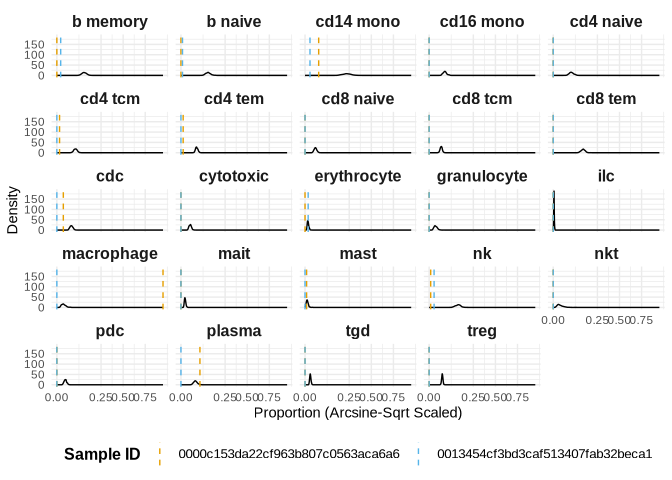
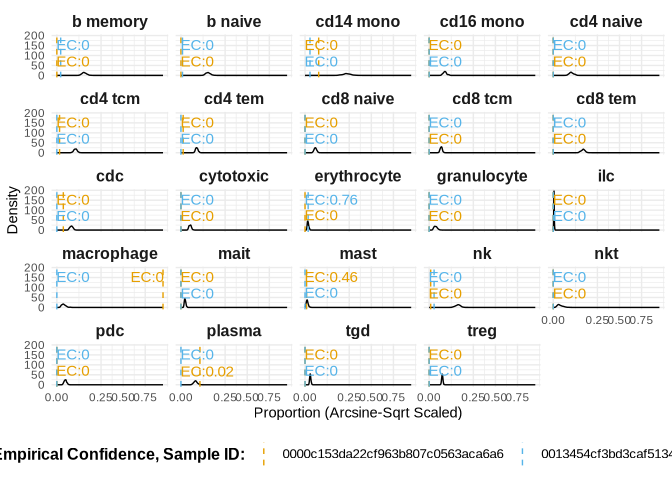
major update to cache and download sys, plot and md files

diff --git a/README.md b/README.md
@@ -1,5 +1,10 @@
-posteriorHCA
-================
+---
+editor_options: 
+  markdown: 
+    wrap: 72
+---
+
+# posteriorHCA
 
 <!-- badges: start -->
 
@@ -55,11 +60,15 @@ library(posteriorHCA)
 
 ## Usage Example
 
-### 1. Load Example Data
+### 1. Load relavent packages and example data
 
 The package includes a small example dataset for demonstration:
 
 ``` r
+library(dplyr)
+library(tidyr)
+library(ggplot2)
+
 data(example_proportions)
 print(example_proportions)
 #> # A tibble: 48 × 3
@@ -90,9 +99,11 @@ result <- posterior_test(
     age_bin = "Middle Age",
     disease_groups = "Normal",
     ethnicity_groups = "European",
-    tissue_groups = "blood"
+    tissue_groups = "blood", 
+    load_model_to_global_env = T
 )
-#> Model loaded!
+#> ℹ Using cached model file: /home/chzhan1/.cache/R/posteriorHCA/estimates_age_bins___L2.rds
+#> Model file loaded: Global Env.
 #> All inputs of metadata are valid.
 #> Start to generative sampling form posterior...
 #> Loading model from cache...
@@ -100,23 +111,34 @@ result <- posterior_test(
 #> 
 #> Chain 1 finished in 0.0 seconds.
 #> # A tibble: 48 × 7
-#>    sample_id_observed       cell_type proportion_observed p_value   mean   lower
-#>    <chr>                    <chr>                   <dbl>   <dbl>  <dbl>   <dbl>
-#>  1 0000c153da22cf963b807c0… b memory             0              0 0.102  0.0731 
-#>  2 0000c153da22cf963b807c0… b naive              0              0 0.101  0.0709 
-#>  3 0000c153da22cf963b807c0… cd14 mono            0.0259         0 0.227  0.155  
-#>  4 0000c153da22cf963b807c0… cd16 mono            0              0 0.0349 0.0222 
-#>  5 0000c153da22cf963b807c0… cd4 naive            0              0 0.0467 0.0287 
-#>  6 0000c153da22cf963b807c0… cd4 tcm              0.00104        0 0.0483 0.0333 
-#>  7 0000c153da22cf963b807c0… cd4 tem              0.000692       0 0.0347 0.0260 
-#>  8 0000c153da22cf963b807c0… cd8 naive            0              0 0.0154 0.00872
-#>  9 0000c153da22cf963b807c0… cd8 tcm              0              0 0.0205 0.0140 
-#> 10 0000c153da22cf963b807c0… cd8 tem              0              0 0.120  0.0928 
+#>    sample_id_observed  cell_type proportion_observed Empirical_Confidence   mean
+#>    <chr>               <chr>                   <dbl>                <dbl>  <dbl>
+#>  1 0000c153da22cf963b… b memory             0                           0 0.103 
+#>  2 0000c153da22cf963b… b naive              0                           0 0.100 
+#>  3 0000c153da22cf963b… cd14 mono            0.0259                      0 0.227 
+#>  4 0000c153da22cf963b… cd16 mono            0                           0 0.0352
+#>  5 0000c153da22cf963b… cd4 naive            0                           0 0.0468
+#>  6 0000c153da22cf963b… cd4 tcm              0.00104                     0 0.0482
+#>  7 0000c153da22cf963b… cd4 tem              0.000692                    0 0.0349
+#>  8 0000c153da22cf963b… cd8 naive            0                           0 0.0152
+#>  9 0000c153da22cf963b… cd8 tcm              0                           0 0.0206
+#> 10 0000c153da22cf963b… cd8 tem              0                           0 0.120 
 #> # ℹ 38 more rows
-#> # ℹ 1 more variable: upper <dbl>
+#> # ℹ 2 more variables: lower <dbl>, upper <dbl>
 ```
 
-![](README_files/figure-gfm/unnamed-chunk-5-1.png)<!-- -->
+![](/home/chzhan1/R/SAiGENCI/posteriorHCA/README_files/figure-gfm/unnamed-chunk-5-1.png)<!-- -->
+
+#### About `load_model_to_global_env`
+
+In the `posterior_test` function, we added arg -
+`load_model_to_global_env` to determine if the model file should be
+loaded into global env or local env (scoop within the function running)
+in R session. By default, it is set to be TRUE -
+`load_model_to_global_env = T`, and this is particularly useful when you
+wish to repeatedly running the function. Loading model file into global
+env prevents re-loading the model file, which usually will cost you
+minutes to run.
 
 ### **3. Inspect the Results**
 
@@ -125,29 +147,29 @@ result <- posterior_test(
 ``` r
 print(result$result_table)
 #> # A tibble: 48 × 7
-#>    sample_id_observed       cell_type proportion_observed p_value   mean   lower
-#>    <chr>                    <chr>                   <dbl>   <dbl>  <dbl>   <dbl>
-#>  1 0000c153da22cf963b807c0… b memory             0              0 0.102  0.0731 
-#>  2 0000c153da22cf963b807c0… b naive              0              0 0.101  0.0709 
-#>  3 0000c153da22cf963b807c0… cd14 mono            0.0259         0 0.227  0.155  
-#>  4 0000c153da22cf963b807c0… cd16 mono            0              0 0.0349 0.0222 
-#>  5 0000c153da22cf963b807c0… cd4 naive            0              0 0.0467 0.0287 
-#>  6 0000c153da22cf963b807c0… cd4 tcm              0.00104        0 0.0483 0.0333 
-#>  7 0000c153da22cf963b807c0… cd4 tem              0.000692       0 0.0347 0.0260 
-#>  8 0000c153da22cf963b807c0… cd8 naive            0              0 0.0154 0.00872
-#>  9 0000c153da22cf963b807c0… cd8 tcm              0              0 0.0205 0.0140 
-#> 10 0000c153da22cf963b807c0… cd8 tem              0              0 0.120  0.0928 
+#>    sample_id_observed  cell_type proportion_observed Empirical_Confidence   mean
+#>    <chr>               <chr>                   <dbl>                <dbl>  <dbl>
+#>  1 0000c153da22cf963b… b memory             0                           0 0.103 
+#>  2 0000c153da22cf963b… b naive              0                           0 0.100 
+#>  3 0000c153da22cf963b… cd14 mono            0.0259                      0 0.227 
+#>  4 0000c153da22cf963b… cd16 mono            0                           0 0.0352
+#>  5 0000c153da22cf963b… cd4 naive            0                           0 0.0468
+#>  6 0000c153da22cf963b… cd4 tcm              0.00104                     0 0.0482
+#>  7 0000c153da22cf963b… cd4 tem              0.000692                    0 0.0349
+#>  8 0000c153da22cf963b… cd8 naive            0                           0 0.0152
+#>  9 0000c153da22cf963b… cd8 tcm              0                           0 0.0206
+#> 10 0000c153da22cf963b… cd8 tem              0                           0 0.120 
 #> # ℹ 38 more rows
-#> # ℹ 1 more variable: upper <dbl>
+#> # ℹ 2 more variables: lower <dbl>, upper <dbl>
 ```
 
-Density Plot of Posterior Predictions
+#### Density Plot of Posterior Predictions
 
 ``` r
 print(result$plot)
 ```
 
-![](README_files/figure-gfm/unnamed-chunk-7-1.png)<!-- -->
+![](/home/chzhan1/R/SAiGENCI/posteriorHCA/README_files/figure-gfm/unnamed-chunk-7-1.png)<!-- -->
 
 ## **Input Arguments and Valid Values**
 
@@ -163,17 +185,43 @@ If users choose to specify metadata, it must be consistent with the
 **Human Cell Atlas (HCA) annotations** to ensure accurate comparisons.
 Below is a comprehensive list of valid arguments:
 
--   **Cell Types:** "b memory", "b naive", "cd14 mono", "cd16 mono", "cd4 naive", "cd4 tcm", "cd4 tem", "cd8 naive", "cd8 tcm", "cd8 tem", "cdc", "cytotoxic", "erythrocyte", "granulocyte", "ilc", "macrophage", "mait", "mast", "nk", "nkt", "pdc", "plasma", "tgd", "treg"
+-   **Cell Types:** “b memory”, “b naive”, “cd14 mono”, “cd16 mono”,
+    “cd4 naive”, “cd4 tcm”, “cd4 tem”, “cd8 naive”, “cd8 tcm”, “cd8
+    tem”, “cdc”, “cytotoxic”, “erythrocyte”, “granulocyte”, “ilc”,
+    “macrophage”, “mait”, “mast”, “nk”, “nkt”, “pdc”, “plasma”, “tgd”,
+    “treg”
 
--   **Sex:** "female", "male", "unknown"
+-   **Sex:** “female”, “male”, “unknown”
 
--   **Age Groups:** "Young Adulthood", "Senior", "Middle Age", "Childhood", "Adolescence", "Infancy"
+-   **Age Groups:** “Young Adulthood”, “Senior”, “Middle Age”,
+    “Childhood”, “Adolescence”, “Infancy”
 
--   **Disease Groups:** "Normal", "COVID-19 related", "Metabolic and Other Disorders: Renal and Urinary Disorders", "other", "Metabolic and Other Disorders: Gastrointestinal Disorders", "Respiratory Conditions: General Respiratory Disorders", "Infectious and Immune-related Diseases: Autoimmune and Immune-Related Disorders", "Infectious and Immune-related Diseases: Respiratory Infections", "Cancer: Renal Cancer", "Cancer: Gastrointestinal Cancer", "Cancer: Hematologic Cancer", "Cancer: Breast Cancer", "Cancer: Lung Cancer", "Respiratory Conditions: Restrictive Lung Diseases", "Neurodegenerative and Neurological Disorders: Neurodegenerative Disorders", "Metabolic and Other Disorders: Metabolic Disorders", "Respiratory Conditions: Obstructive Lung Diseases"
+-   **Disease Groups:** “Normal”, “COVID-19 related”, “Metabolic and
+    Other Disorders: Renal and Urinary Disorders”, “other”, “Metabolic
+    and Other Disorders: Gastrointestinal Disorders”, “Respiratory
+    Conditions: General Respiratory Disorders”, “Infectious and
+    Immune-related Diseases: Autoimmune and Immune-Related Disorders”,
+    “Infectious and Immune-related Diseases: Respiratory Infections”,
+    “Cancer: Renal Cancer”, “Cancer: Gastrointestinal Cancer”, “Cancer:
+    Hematologic Cancer”, “Cancer: Breast Cancer”, “Cancer: Lung Cancer”,
+    “Respiratory Conditions: Restrictive Lung Diseases”,
+    “Neurodegenerative and Neurological Disorders: Neurodegenerative
+    Disorders”, “Metabolic and Other Disorders: Metabolic Disorders”,
+    “Respiratory Conditions: Obstructive Lung Diseases”
 
--   **Ethnicity Groups:** "African", "Other/Unknown", "European", "East Asian", "Hispanic/Latin American", "South Asian", "Native American & Pacific Islander"
+-   **Ethnicity Groups:** “African”, “Other/Unknown”, “European”, “East
+    Asian”, “Hispanic/Latin American”, “South Asian”, “Native American &
+    Pacific Islander”
 
--   **Tissue Groups:** "respiratory system", "blood", "renal system", "epithelium and mucosal tissues", "nasal, oral, and pharyngeal regions", "cerebral lobes and cortical areas", "breast", "cardiovascular system", "small intestine", "trachea", "endocrine system", "lymphatic system", "prostate", "sensory-related structures", "liver", "oesophagus", "large intestine", "spleen", "brainstem and cerebellar structures", "bone marrow", "stomach", "female reproductive system", "thymus", "adipose tissue", "integumentary system (skin)", "gallbladder", "pancreas"
+-   **Tissue Groups:** “respiratory system”, “blood”, “renal system”,
+    “epithelium and mucosal tissues”, “nasal, oral, and pharyngeal
+    regions”, “cerebral lobes and cortical areas”, “breast”,
+    “cardiovascular system”, “small intestine”, “trachea”, “endocrine
+    system”, “lymphatic system”, “prostate”, “sensory-related
+    structures”, “liver”, “oesophagus”, “large intestine”, “spleen”,
+    “brainstem and cerebellar structures”, “bone marrow”, “stomach”,
+    “female reproductive system”, “thymus”, “adipose tissue”,
+    “integumentary system (skin)”, “gallbladder”, “pancreas”
 
 # Session Info
 
@@ -201,54 +249,53 @@ sessionInfo()
 #> [1] stats     graphics  grDevices utils     datasets  methods   base     
 #> 
 #> other attached packages:
-#> [1] posteriorHCA_0.1.0
+#> [1] ggplot2_3.5.1      tidyr_1.3.1        dplyr_1.1.4        posteriorHCA_0.1.0
 #> 
 #> loaded via a namespace (and not attached):
-#>  [1] tidyselect_1.2.1            dplyr_1.1.4                
-#>  [3] farver_2.1.2                fastmap_1.2.0              
-#>  [5] SingleCellExperiment_1.28.1 tensorA_0.36.2.1           
-#>  [7] digest_0.6.37               dittoSeq_1.18.0            
-#>  [9] lifecycle_1.0.4             sccomp_1.99.12             
-#> [11] processx_3.8.5              magrittr_2.0.3             
-#> [13] posterior_1.6.0             compiler_4.4.0             
-#> [15] rlang_1.1.5                 sass_0.4.9                 
-#> [17] tools_4.4.0                 utf8_1.2.4                 
-#> [19] yaml_2.3.10                 data.table_1.16.4          
-#> [21] knitr_1.49                  labeling_0.4.3             
-#> [23] S4Arrays_1.6.0              DelayedArray_0.32.0        
-#> [25] RColorBrewer_1.1-3          cmdstanr_0.8.1             
-#> [27] abind_1.4-8                 withr_3.0.2                
-#> [29] purrr_1.0.4                 BiocGenerics_0.52.0        
-#> [31] grid_4.4.0                  stats4_4.4.0               
-#> [33] colorspace_2.1-1            ggplot2_3.5.1              
-#> [35] scales_1.3.0                ggridges_0.5.6             
-#> [37] SummarizedExperiment_1.36.0 cli_3.6.4                  
-#> [39] rmarkdown_2.29              crayon_1.5.3               
-#> [41] generics_0.1.3              rstudioapi_0.17.1          
-#> [43] httr_1.4.7                  tzdb_0.4.0                 
-#> [45] cachem_1.1.0                stringr_1.5.1              
-#> [47] zlibbioc_1.52.0             parallel_4.4.0             
-#> [49] XVector_0.46.0              matrixStats_1.5.0          
-#> [51] vctrs_0.6.5                 Matrix_1.7-2               
-#> [53] jsonlite_1.8.9              callr_3.7.6                
-#> [55] IRanges_2.40.0              hms_1.1.3                  
-#> [57] patchwork_1.3.0             S4Vectors_0.44.0           
-#> [59] ggrepel_0.9.6               jquerylib_0.1.4            
-#> [61] tidyr_1.3.1                 glue_1.8.0                 
-#> [63] ps_1.8.1                    distributional_0.5.0       
-#> [65] cowplot_1.1.3               stringi_1.8.4              
-#> [67] gtable_0.3.6                GenomeInfoDb_1.42.1        
-#> [69] GenomicRanges_1.58.0        UCSC.utils_1.2.0           
-#> [71] munsell_0.5.1               instantiate_0.2.3          
-#> [73] tibble_3.2.1                pillar_1.10.1              
-#> [75] htmltools_0.5.8.1           GenomeInfoDbData_1.2.13    
-#> [77] R6_2.6.0                    rprojroot_2.0.4            
-#> [79] evaluate_1.0.3              lattice_0.22-6             
-#> [81] Biobase_2.66.0              readr_2.1.5                
-#> [83] backports_1.5.0             pheatmap_1.0.12            
-#> [85] bslib_0.9.0                 Rcpp_1.0.14                
-#> [87] gridExtra_2.3               SparseArray_1.6.1          
-#> [89] checkmate_2.3.2             xfun_0.50                  
-#> [91] MatrixGenerics_1.18.1       fs_1.6.5                   
-#> [93] forcats_1.0.0               pkgconfig_2.0.3
+#>  [1] tidyselect_1.2.1            farver_2.1.2               
+#>  [3] fastmap_1.2.0               SingleCellExperiment_1.28.1
+#>  [5] tensorA_0.36.2.1            digest_0.6.37              
+#>  [7] dittoSeq_1.18.0             lifecycle_1.0.4            
+#>  [9] sccomp_1.99.12              processx_3.8.5             
+#> [11] magrittr_2.0.3              posterior_1.6.0            
+#> [13] compiler_4.4.0              rlang_1.1.5                
+#> [15] sass_0.4.9                  tools_4.4.0                
+#> [17] utf8_1.2.4                  yaml_2.3.10                
+#> [19] data.table_1.16.4           knitr_1.49                 
+#> [21] labeling_0.4.3              S4Arrays_1.6.0             
+#> [23] DelayedArray_0.32.0         RColorBrewer_1.1-3         
+#> [25] cmdstanr_0.8.1              abind_1.4-8                
+#> [27] withr_3.0.2                 purrr_1.0.4                
+#> [29] BiocGenerics_0.52.0         grid_4.4.0                 
+#> [31] stats4_4.4.0                colorspace_2.1-1           
+#> [33] scales_1.3.0                ggridges_0.5.6             
+#> [35] SummarizedExperiment_1.36.0 cli_3.6.4                  
+#> [37] rmarkdown_2.29              crayon_1.5.3               
+#> [39] generics_0.1.3              rstudioapi_0.17.1          
+#> [41] httr_1.4.7                  tzdb_0.4.0                 
+#> [43] cachem_1.1.0                stringr_1.5.1              
+#> [45] zlibbioc_1.52.0             parallel_4.4.0             
+#> [47] XVector_0.46.0              matrixStats_1.5.0          
+#> [49] vctrs_0.6.5                 Matrix_1.7-2               
+#> [51] jsonlite_1.8.9              callr_3.7.6                
+#> [53] IRanges_2.40.0              hms_1.1.3                  
+#> [55] patchwork_1.3.0             S4Vectors_0.44.0           
+#> [57] ggrepel_0.9.6               jquerylib_0.1.4            
+#> [59] glue_1.8.0                  ps_1.8.1                   
+#> [61] distributional_0.5.0        cowplot_1.1.3              
+#> [63] stringi_1.8.4               gtable_0.3.6               
+#> [65] GenomeInfoDb_1.42.3         GenomicRanges_1.58.0       
+#> [67] UCSC.utils_1.2.0            munsell_0.5.1              
+#> [69] instantiate_0.2.3           tibble_3.2.1               
+#> [71] pillar_1.10.1               htmltools_0.5.8.1          
+#> [73] GenomeInfoDbData_1.2.13     R6_2.6.0                   
+#> [75] rprojroot_2.0.4             evaluate_1.0.3             
+#> [77] lattice_0.22-6              Biobase_2.66.0             
+#> [79] readr_2.1.5                 backports_1.5.0            
+#> [81] pheatmap_1.0.12             bslib_0.9.0                
+#> [83] Rcpp_1.0.14                 gridExtra_2.3              
+#> [85] SparseArray_1.6.1           checkmate_2.3.2            
+#> [87] xfun_0.50                   MatrixGenerics_1.18.1      
+#> [89] fs_1.6.5                    forcats_1.0.0              
+#> [91] pkgconfig_2.0.3
 ```
